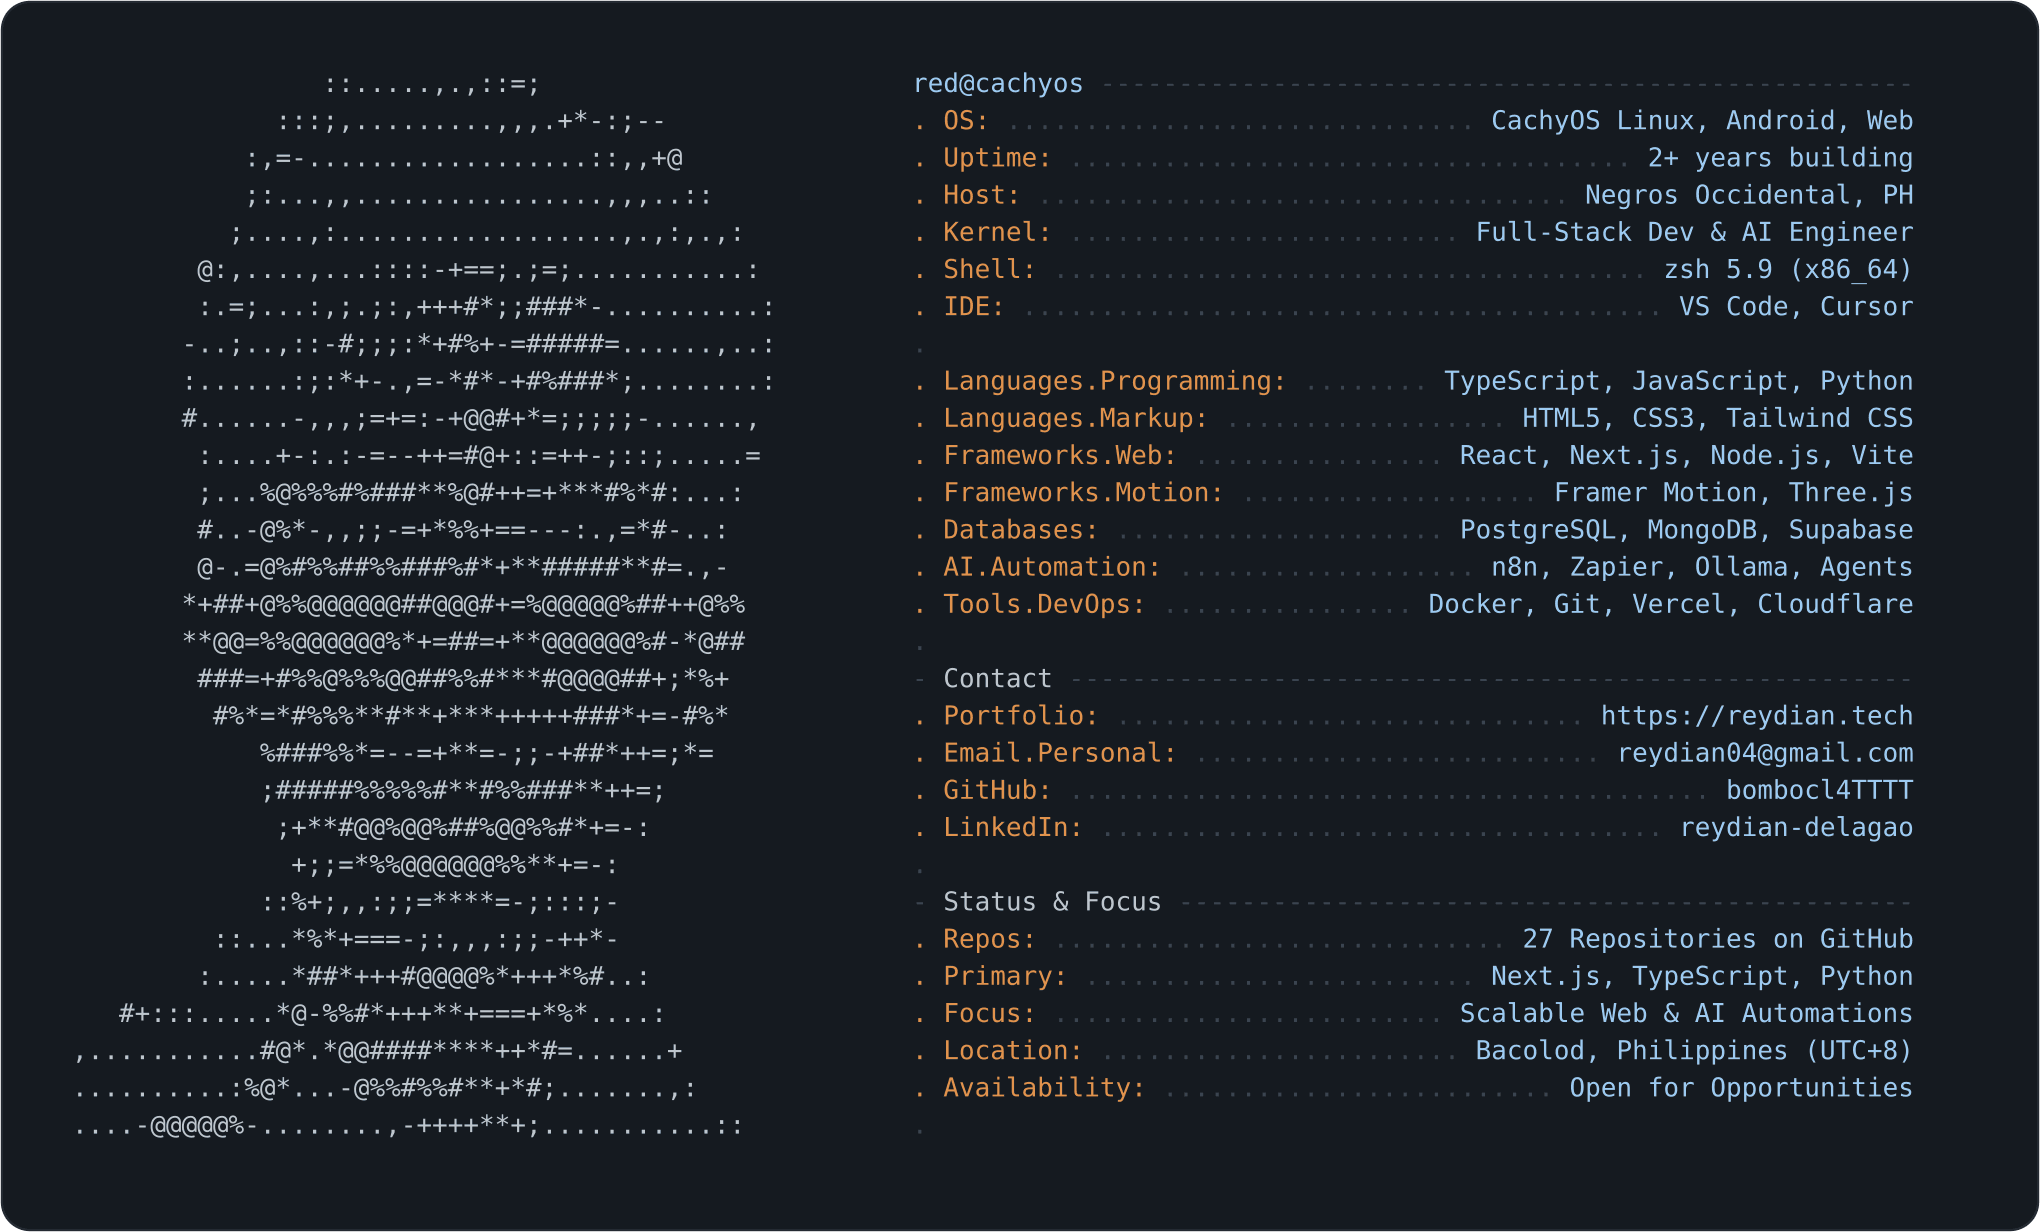
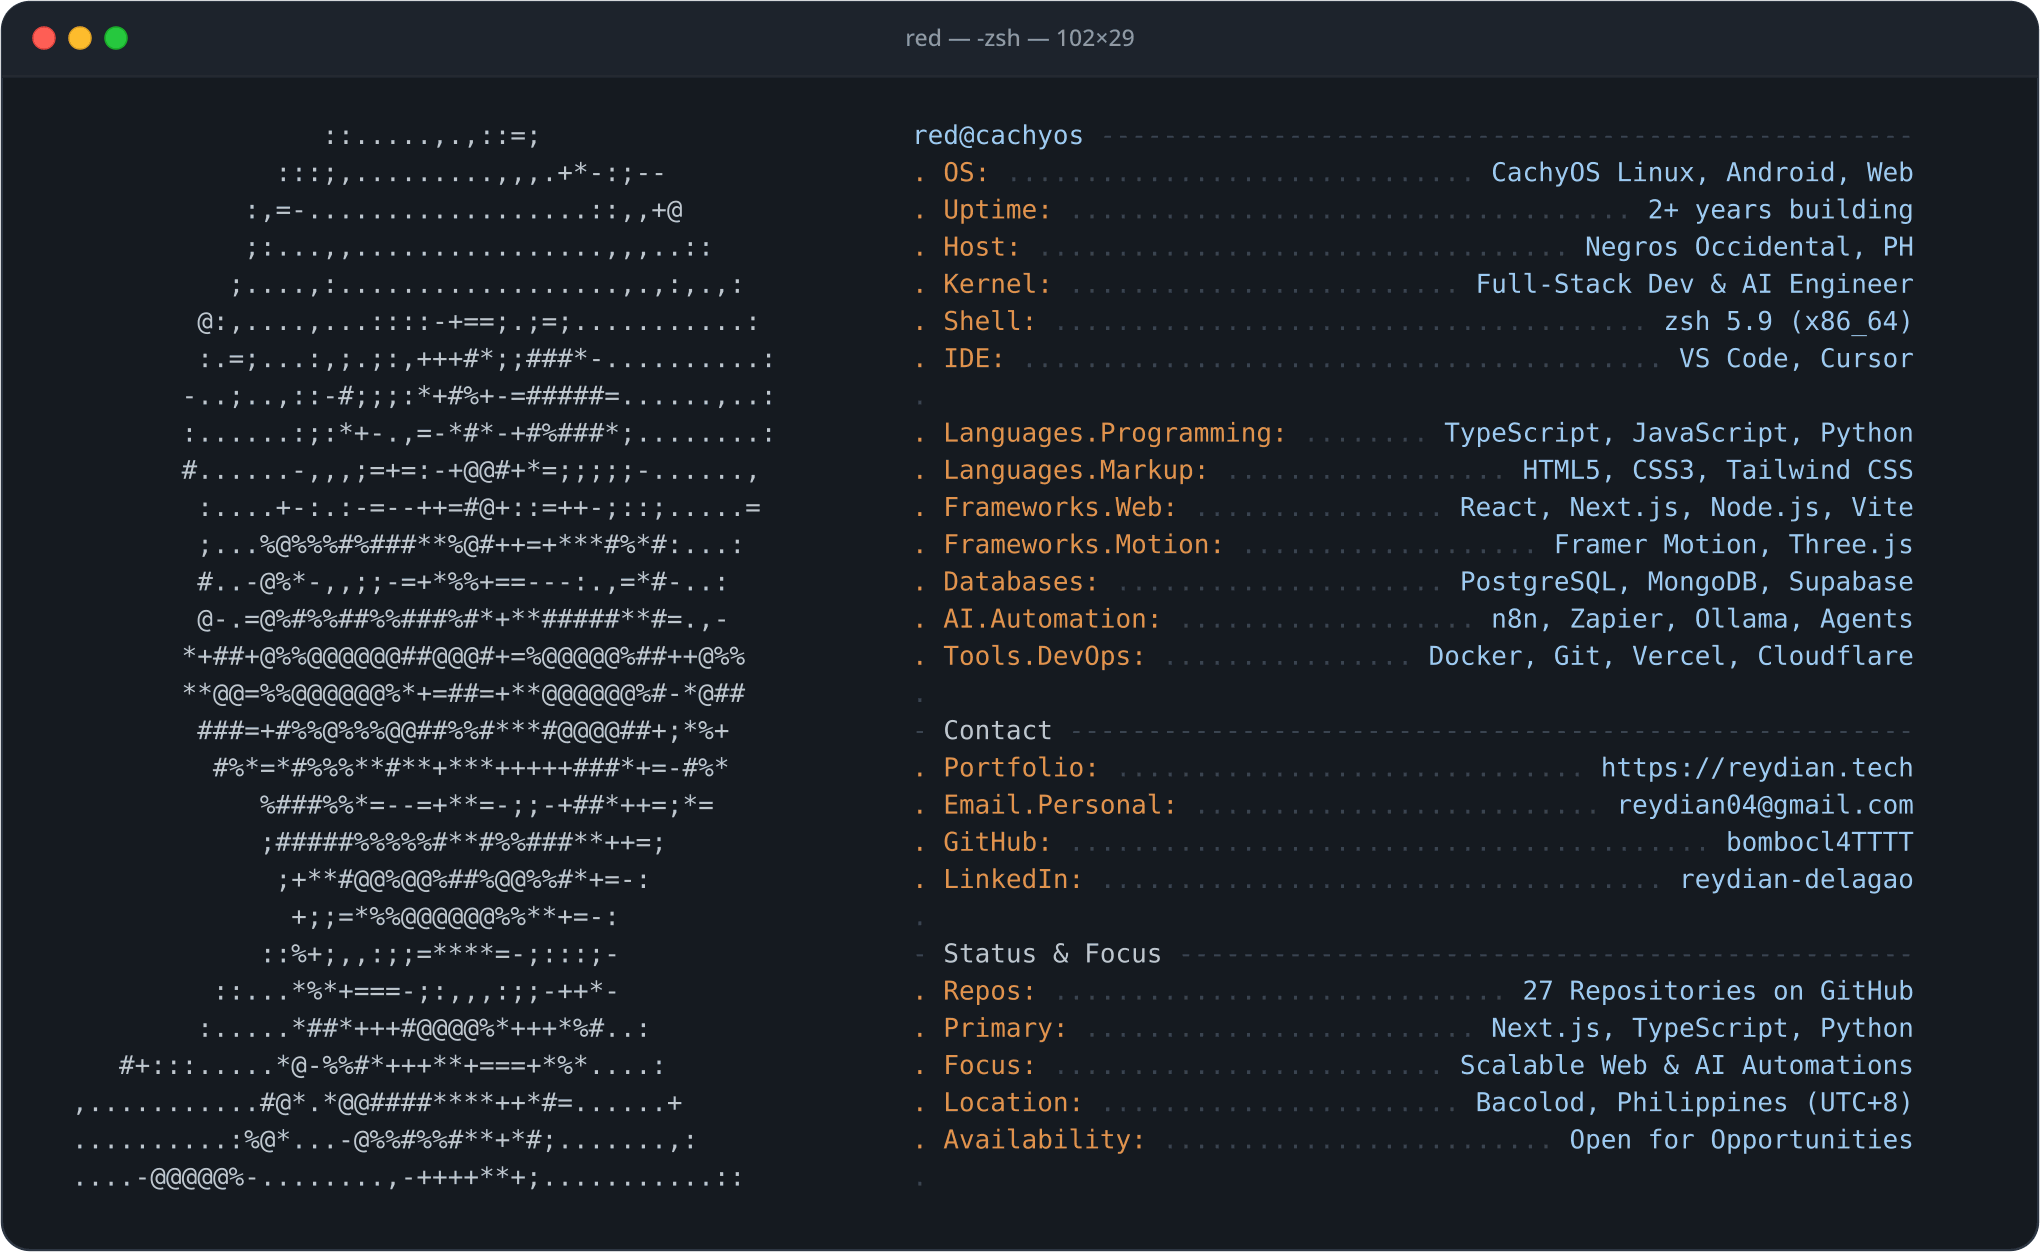
style: wrap ASCII neofetch header inside authentic macOS terminal window

diff --git a/scripts/build_ascii_card.py b/scripts/build_ascii_card.py
@@ -2,6 +2,7 @@
 import html
 import subprocess
 from pathlib import Path
+from PIL import Image
 
 ROOT = Path("/home/red/Projects/github-profile")
 ASCII_PATH = Path("/home/red/Downloads/face-clean-52.txt")
@@ -58,26 +59,57 @@ right_entries = [
 
 assert len(right_entries) == 29, f"Expected 29 right entries, got {len(right_entries)}"
 
-# Color palette matching user's reference image
-C_BG = "#151a20"
-C_BORDER = "#222933"
+# macOS Terminal palette
+C_BODY_BG = "#151a20"
+C_HEADER_BG = "#1c232c"
+C_BORDER = "#283241"
+C_DIVIDER = "#232b38"
 C_ASCII = "#bfc7ce"
 C_ORANGE = "#e2944e"
 C_BLUE = "#9dcbf2"
 C_DOTS = "#3c434f"
 C_HEADER = "#bfc7ce"
+C_TITLE_TXT = "#8694a6"
 
 WIDTH = 1020
-HEIGHT = 616
-START_X_LEFT = 36
-START_X_RIGHT = 456
-START_Y = 46
+TITLE_BAR_H = 38
+START_Y = TITLE_BAR_H + 34
 LINE_HEIGHT = 18.6
 FONT_SIZE = 13
+HEIGHT = int(START_Y + 28 * LINE_HEIGHT + 34)
+
+START_X_LEFT = 36
+START_X_RIGHT = 456
 
 svg_parts = [
     f'<svg xmlns="http://www.w3.org/2000/svg" viewBox="0 0 {WIDTH} {HEIGHT}" width="100%" height="auto">',
-    f'  <rect x="1" y="1" width="{WIDTH-2}" height="{HEIGHT-2}" rx="14" fill="{C_BG}" stroke="{C_BORDER}" stroke-width="1.2" />',
+    '  <defs>',
+    f'    <clipPath id="windowClip">',
+    f'      <rect x="1" y="1" width="{WIDTH-2}" height="{HEIGHT-2}" rx="14" />',
+    f'    </clipPath>',
+    '  </defs>',
+    '',
+    '  <!-- Main Window Body -->',
+    f'  <rect x="1" y="1" width="{WIDTH-2}" height="{HEIGHT-2}" rx="14" fill="{C_BODY_BG}" stroke="{C_BORDER}" stroke-width="1.2" />',
+    '',
+    '  <!-- Window Header / Title Bar (clipped to rounded corners) -->',
+    '  <g clip-path="url(#windowClip)">',
+    f'    <rect x="1" y="1" width="{WIDTH-2}" height="{TITLE_BAR_H}" fill="{C_HEADER_BG}" />',
+    f'    <line x1="1" y1="{TITLE_BAR_H}" x2="{WIDTH-1}" y2="{TITLE_BAR_H}" stroke="{C_DIVIDER}" stroke-width="1" />',
+    '  </g>',
+    '',
+    '  <!-- Apple Window Control Buttons (Traffic Lights) -->',
+    '  <!-- Close -->',
+    '  <circle cx="22" cy="19" r="5.5" fill="#ff5f56" stroke="#e0443e" stroke-width="0.8" />',
+    '  <!-- Minimize -->',
+    '  <circle cx="40" cy="19" r="5.5" fill="#ffbd2e" stroke="#dea123" stroke-width="0.8" />',
+    '  <!-- Zoom / Expand -->',
+    '  <circle cx="58" cy="19" r="5.5" fill="#27c93f" stroke="#1aab29" stroke-width="0.8" />',
+    '',
+    '  <!-- Window Title (macOS style: red — -zsh — 100×29) -->',
+    f'  <text x="{WIDTH/2}" y="23" text-anchor="middle" font-family="-apple-system, BlinkMacSystemFont, \'SF Pro Text\', \'Segoe UI\', sans-serif" font-size="11.5" font-weight="500" fill="{C_TITLE_TXT}">red — -zsh — 102×29</text>',
+    '',
+    '  <!-- Terminal Content (Monospace) -->',
     f'  <g font-family="ui-monospace, \'Fira Code\', \'Cascadia Code\', \'JetBrains Mono\', \'DejaVu Sans Mono\', Menlo, Consolas, monospace" font-size="{FONT_SIZE}" xml:space="preserve">',
 ]
 
@@ -133,7 +165,13 @@ with open(out_svg, "w", encoding="utf-8") as f:
 
 print(f"Wrote {out_svg}")
 
-# Render to 2x Retina PNG
-cmd = ["rsvg-convert", "-w", str(WIDTH * 2), str(out_svg), "-o", str(out_png)]
+# Render to 2x Retina PNG via rsvg-convert
+raw_png = "/tmp/raw_terminal.png"
+cmd = ["rsvg-convert", "-w", str(WIDTH * 2), str(out_svg), "-o", raw_png]
 subprocess.run(cmd, check=True)
-print(f"Rendered {out_png}")
+
+# Quantize RGBA with Pillow to keep it fast & lightweight (~120KB)
+im = Image.open(raw_png)
+im_q = im.quantize(colors=256, method=Image.Quantize.FASTOCTREE)
+im_q.save(out_png, optimize=True)
+print(f"Rendered and optimized {out_png} ({out_png.stat().st_size:,} bytes)")
